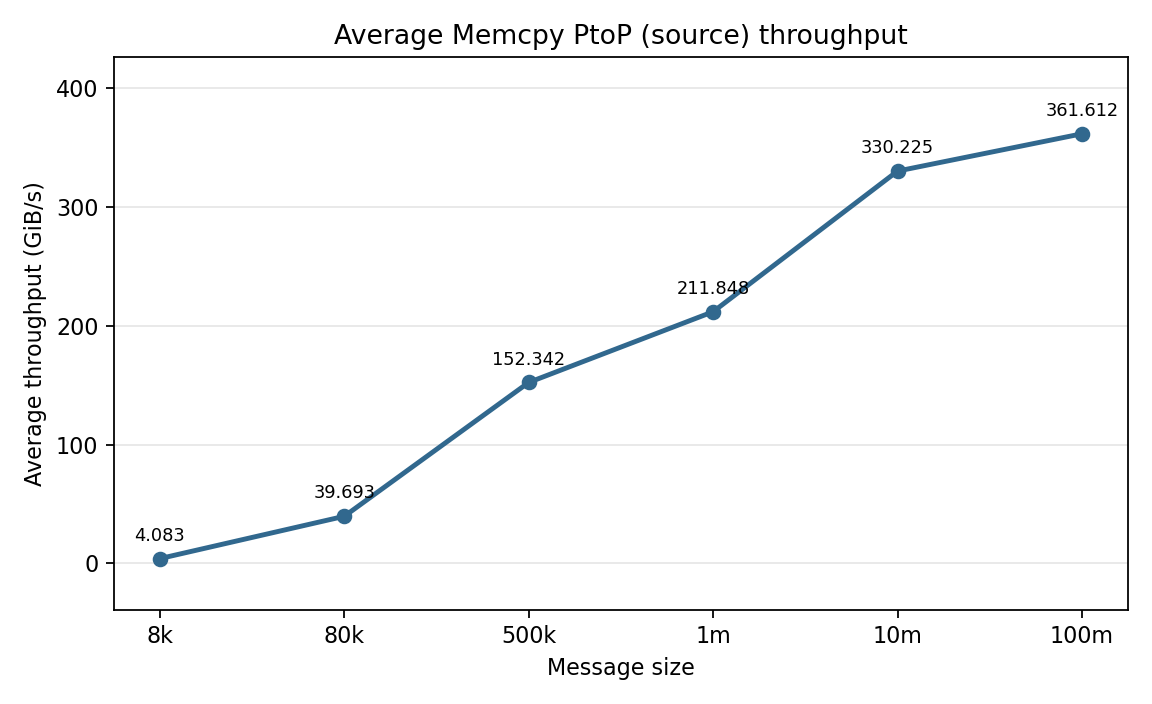
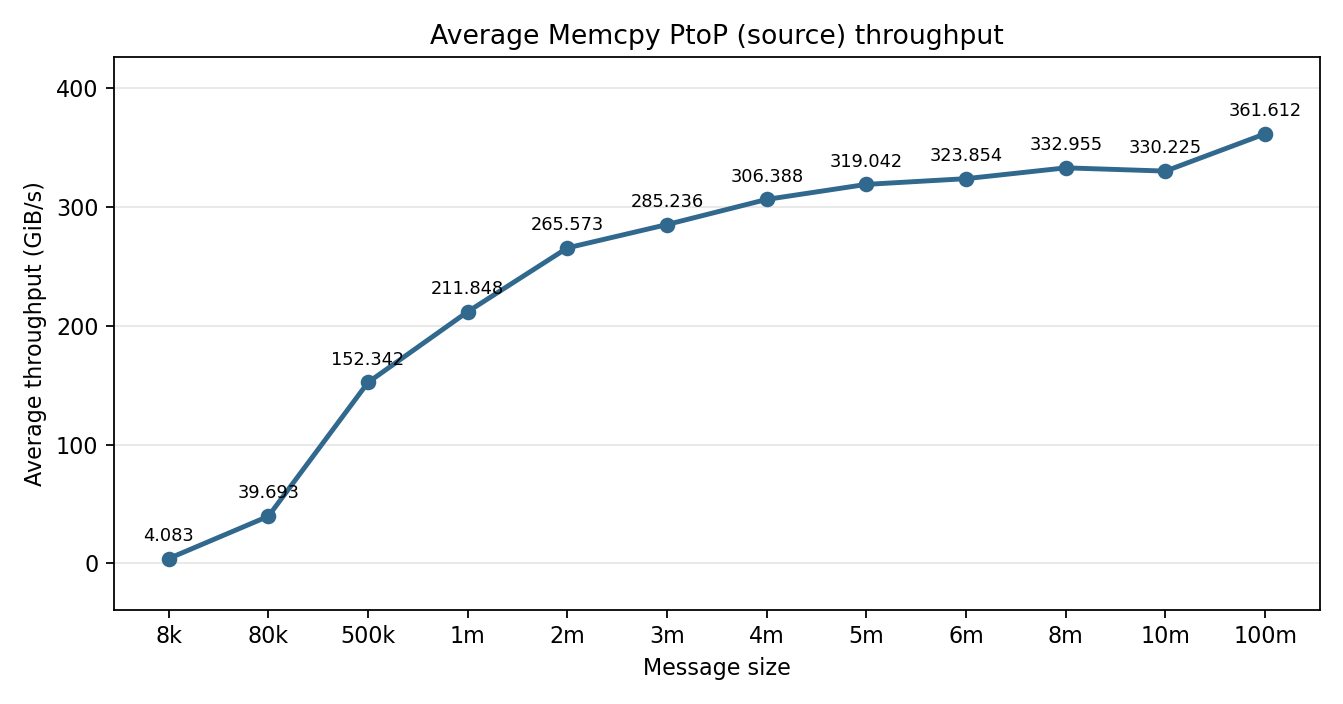
update the result with message sizes 2m~8m

diff --git a/Copy_Engine/Results/nvlink_copy_engine_test/plot_nvlink_copy_engine_summary.py b/Copy_Engine/Results/nvlink_copy_engine_test/plot_nvlink_copy_engine_summary.py
@@ -25,13 +25,19 @@ import analyze_nvlink_copy_engine_report as analyzer
 
 
 SCRIPT_DIR = Path(__file__).resolve().parent
-DEFAULT_SQLITES = [
-    SCRIPT_DIR / "1*8k.sqlite",
-    SCRIPT_DIR / "1*80k.sqlite",
-    SCRIPT_DIR / "1*500k.sqlite",
-    SCRIPT_DIR / "1*1m.sqlite",
-    SCRIPT_DIR / "1*10m.sqlite",
-    SCRIPT_DIR / "1*100m.sqlite",
+FALLBACK_SQLITE_NAMES = [
+    "1*8k.sqlite",
+    "1*80k.sqlite",
+    "1*500k.sqlite",
+    "1*1m.sqlite",
+    "1*2m.sqlite",
+    "1*3m.sqlite",
+    "1*4m.sqlite",
+    "1*5m.sqlite",
+    "1*6m.sqlite",
+    "1*8m.sqlite",
+    "1*10m.sqlite",
+    "1*100m.sqlite",
 ]
 
 
@@ -46,10 +52,10 @@ def parse_args() -> argparse.Namespace:
         "sqlite",
         nargs="*",
         type=Path,
-        default=DEFAULT_SQLITES,
+        default=default_sqlites(),
         help=(
-            "SQLite files to plot. Defaults to ./1*8k.sqlite ./1*80k.sqlite "
-            "./1*500k.sqlite ./1*1m.sqlite ./1*10m.sqlite ./1*100m.sqlite."
+            "SQLite files to plot. Defaults to all ./1*<size>.sqlite files, "
+            "sorted by message size."
         ),
     )
     parser.add_argument(
@@ -97,6 +103,16 @@ def message_size_bytes(label: str) -> float:
     return value * multiplier
 
 
+def default_sqlites() -> list[Path]:
+    discovered = list(SCRIPT_DIR.glob("1*.sqlite"))
+    if not discovered:
+        return [SCRIPT_DIR / name for name in FALLBACK_SQLITE_NAMES]
+    return sorted(
+        discovered,
+        key=lambda path: (message_size_bytes(message_size_label(path)), path.name),
+    )
+
+
 def load_summary(path: Path, gpu_bus_id: str, skip_warmup_copies: int) -> dict[str, Any]:
     path = path.expanduser().resolve()
     if not path.exists():
@@ -119,7 +135,7 @@ def line_plot(
     output_path: Path,
     color: str,
 ) -> None:
-    fig, ax = plt.subplots(figsize=(7.2, 4.4), dpi=160)
+    fig, ax = plt.subplots(figsize=plot_size(labels), dpi=160)
     x_values = list(range(len(labels)))
     ax.plot(x_values, values, marker="o", linewidth=2.2, color=color)
     ax.set_xticks(x_values)
@@ -149,7 +165,7 @@ def timing_plot(
     duration_values: list[float],
     output_path: Path,
 ) -> None:
-    fig, ax = plt.subplots(figsize=(7.2, 4.4), dpi=160)
+    fig, ax = plt.subplots(figsize=plot_size(labels), dpi=160)
     x_values = list(range(len(labels)))
     ax.plot(
         x_values,
@@ -175,20 +191,29 @@ def timing_plot(
     ax.grid(True, axis="y", alpha=0.3)
     ax.legend()
     add_y_margin(ax, gap_values + duration_values)
-    for values, offset, color in (
-        (gap_values, 9, "#5f8f3f"),
-        (duration_values, -14, "#7c4fa3"),
+    for x_value, gap_value, duration_value in zip(
+        x_values, gap_values, duration_values
     ):
-        for x_value, value in zip(x_values, values):
-            ax.annotate(
-                f"{value:.3f}",
-                (x_value, value),
-                textcoords="offset points",
-                xytext=(0, offset),
-                ha="center",
-                fontsize=8,
-                color=color,
-            )
+        gap_offset = 9 if gap_value > duration_value else -14
+        duration_offset = 9 if duration_value >= gap_value else -14
+        ax.annotate(
+            f"{gap_value:.3f}",
+            (x_value, gap_value),
+            textcoords="offset points",
+            xytext=(0, gap_offset),
+            ha="center",
+            fontsize=8,
+            color="#5f8f3f",
+        )
+        ax.annotate(
+            f"{duration_value:.3f}",
+            (x_value, duration_value),
+            textcoords="offset points",
+            xytext=(0, duration_offset),
+            ha="center",
+            fontsize=8,
+            color="#7c4fa3",
+        )
     fig.tight_layout()
     fig.savefig(output_path)
     plt.close(fig)
@@ -205,6 +230,10 @@ def add_y_margin(ax: plt.Axes, values: list[float]) -> None:
     ax.set_ylim(low - span * 0.12, high + span * 0.18)
 
 
+def plot_size(labels: list[str]) -> tuple[float, float]:
+    return (max(7.2, len(labels) * 0.7), 4.4)
+
+
 def nvlink_plot(
     labels: list[str],
     rx_values: list[float],
@@ -212,7 +241,7 @@ def nvlink_plot(
     title: str,
     output_path: Path,
 ) -> None:
-    fig, ax = plt.subplots(figsize=(7.2, 4.4), dpi=160)
+    fig, ax = plt.subplots(figsize=plot_size(labels), dpi=160)
     x_values = list(range(len(labels)))
     ax.plot(x_values, rx_values, marker="o", linewidth=2.2, label="RX", color="#2f6fbb")
     ax.plot(x_values, tx_values, marker="s", linewidth=2.2, label="TX", color="#d17c29")